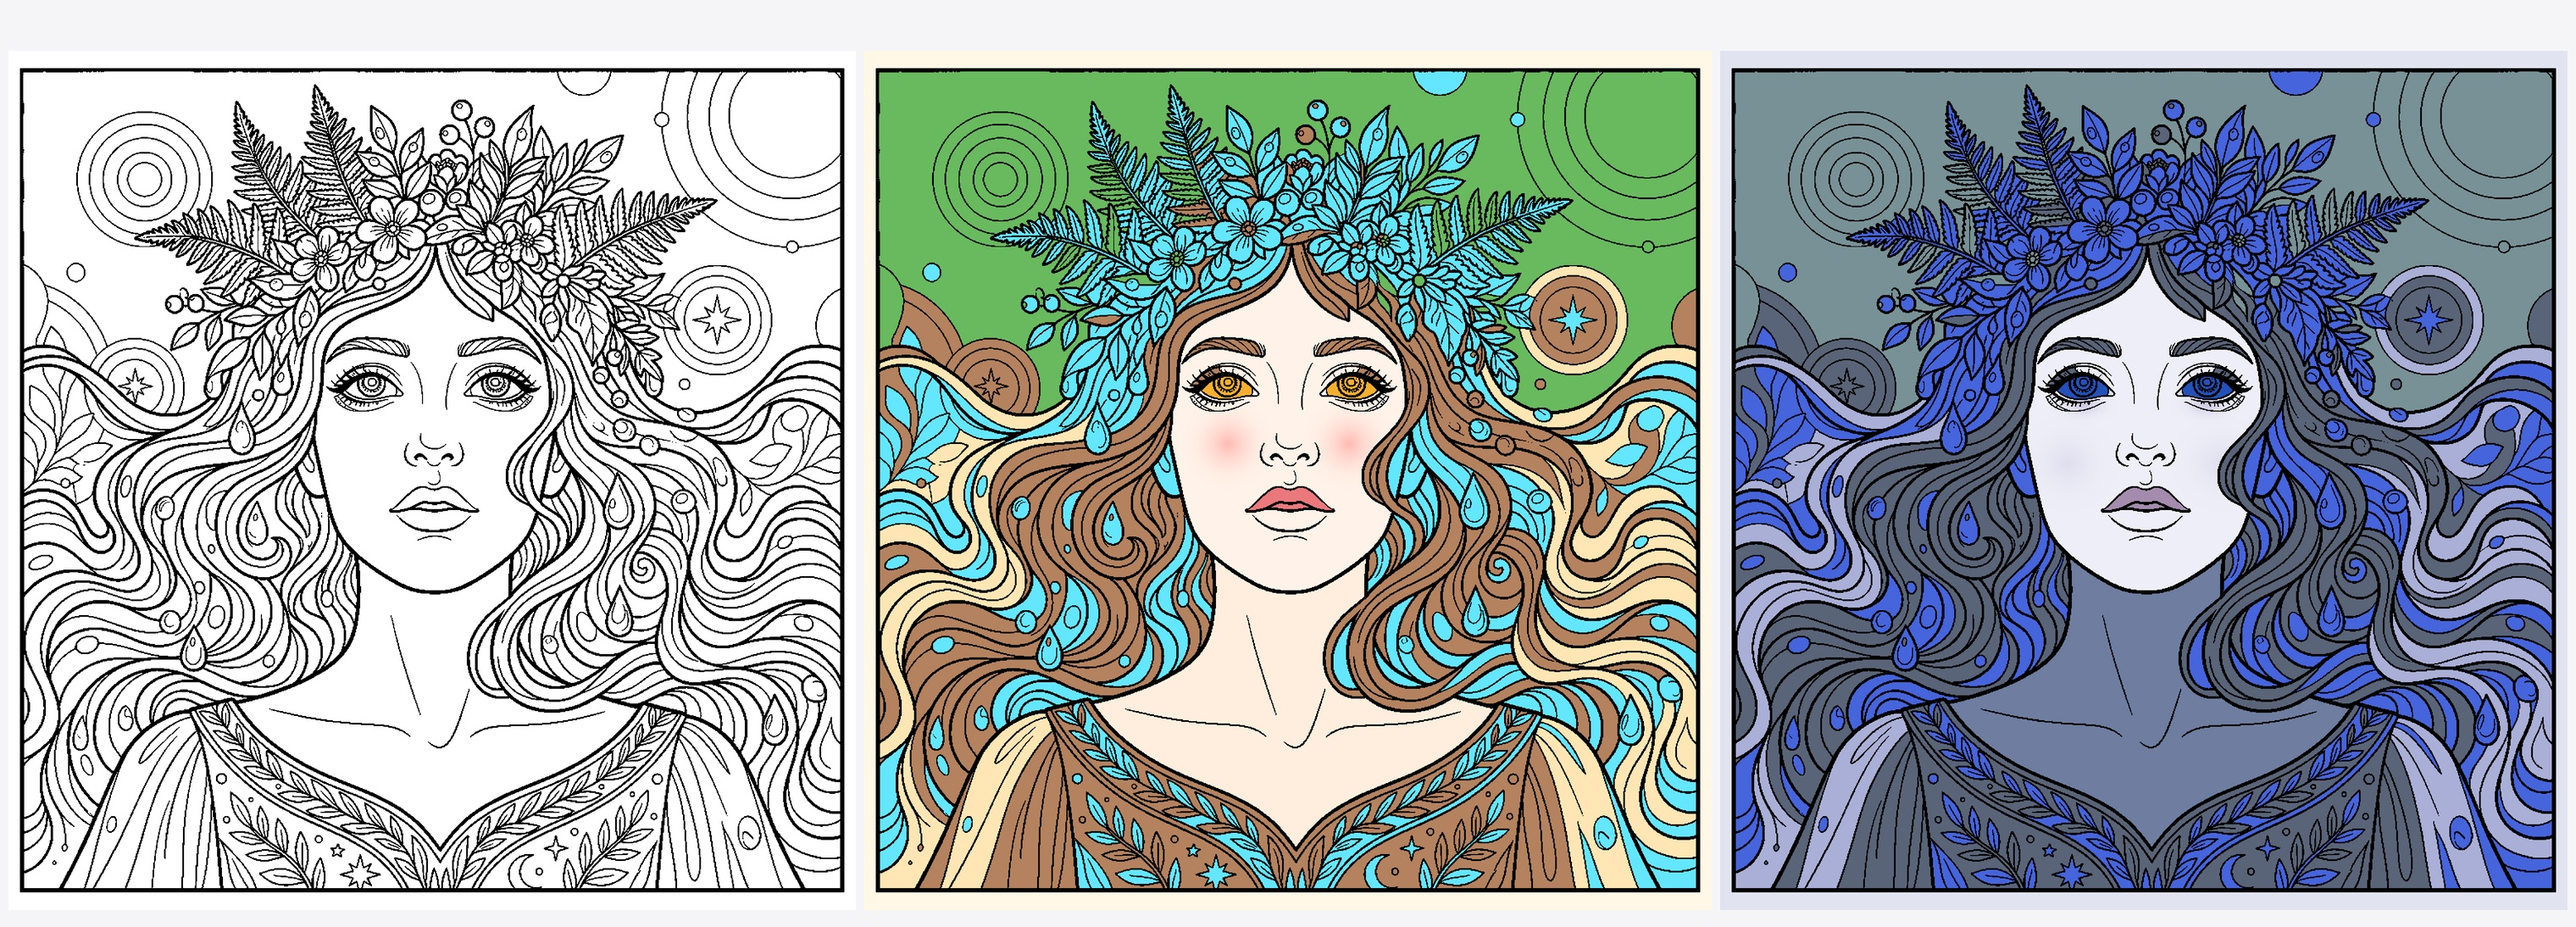
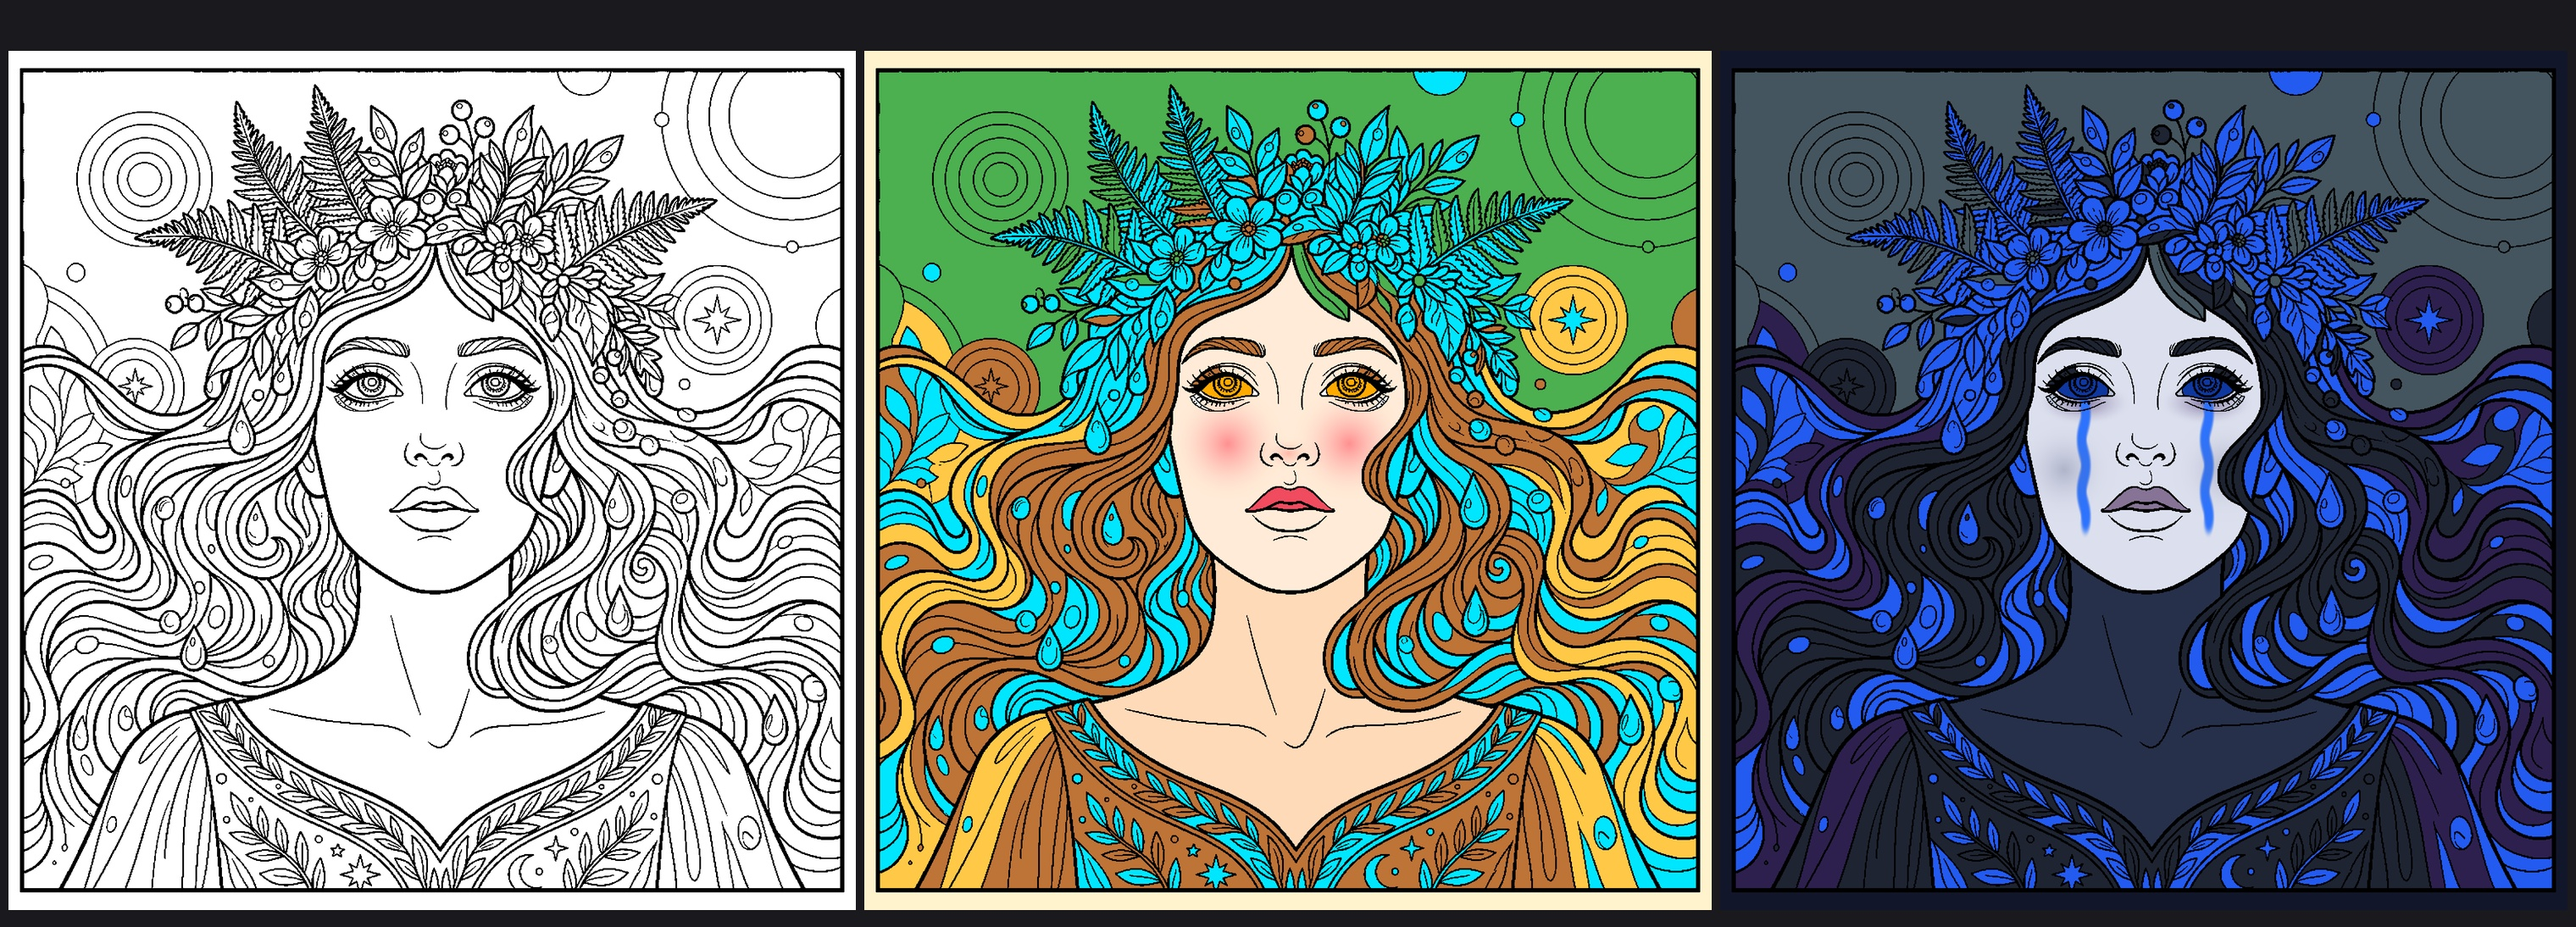
feat: enhance emotional contrast with high-key sunlight vs low-key weeping tears

diff --git a/scripts/render_colored_prototype.py b/scripts/render_colored_prototype.py
@@ -1,9 +1,11 @@
 #!/usr/bin/env python3
 """
-Color the EXACT prototype line art page (assets/aura/processed/page_01_clean.png)
-in two contrasting emotional styles.
-Preserves 100% of the original black vector lines pixel-by-pixel,
-demonstrating how color palette and placement transform character emotion.
+High-Contrast Emotional Color Rendering on exact line art: assets/aura/processed/page_01_clean.png
+Dramatically pushes color theory, lighting, and placement to create unmistakable,
+extreme emotional polarity on the exact same drawing:
+- Style 1 (The Sun Guardian): Radiant Joy, Awakening, Golden Sunlight, Warm Glowing Blush.
+- Style 2 (The Weeping Spirit): Deep Melancholy, Catharsis, Dark Midnight Blue, Ghostly Pale Skin, Crying Tear Tracks.
+Preserves 100% of original black vector lines pixel-by-pixel.
 """
 
 import cv2
@@ -12,7 +14,7 @@ from PIL import Image
 from pathlib import Path
 
 
-def create_colored_styles(
+def render_high_contrast_styles(
     clean_line_path: Path = Path("assets/aura/processed/page_01_clean.png"),
     output_dir: Path = Path("assets/aura"),
 ):
@@ -25,27 +27,20 @@ def create_colored_styles(
     h, w = line_img.shape
     line_mask = line_img < 128  # True where black lines exist
 
-    # 2. Connected components for white regions
+    # 2. Connected components
     _, thresh = cv2.threshold(line_img, 127, 255, cv2.THRESH_BINARY)
     num_labels, labels, stats, centroids = cv2.connectedComponentsWithStats(thresh)
 
-    print(f"[INFO] Image shape: {w}x{h}, Connected white regions: {num_labels}")
-
-    # Specific key components identified
     FACE_LABEL = 330
     BODY_LABEL = 650
     BACKGROUND_LABEL = 1
 
-    # Eye labels
     LEFT_EYE_IRIS = [495, 498, 501, 504, 510]
     LEFT_EYE_SCLERA = [516, 522, 526, 534]
     RIGHT_EYE_IRIS = [496, 499, 502, 505, 509, 511, 514, 518]
     RIGHT_EYE_SCLERA = [507, 517, 525, 527, 529, 536]
-
-    # Lips
     LIP_LABELS = [597, 614]
 
-    # Categorize remaining components
     fern_labels = []
     droplet_labels = []
     hair_labels = []
@@ -61,135 +56,143 @@ def create_colored_styles(
         height = stats[i, cv2.CC_STAT_HEIGHT]
         aspect = max(width, height) / (min(width, height) + 1e-5)
 
-        # Droplets: small/medium oval shapes
-        if 200 <= a <= 9000 and 1.0 <= aspect <= 3.2 and not (980 < cx < 1600 and 700 < cy < 1500):
+        if 150 <= a <= 9000 and 1.0 <= aspect <= 3.2 and not (980 < cx < 1600 and 700 < cy < 1500):
             droplet_labels.append(i)
-        # Ferns: in upper crown or leafy shapes
-        elif (cy < 800 and (cx < 1000 or cx > 1580)) or (a > 5000 and cy < 700):
+        elif (cy < 820 and (cx < 1000 or cx > 1580)) or (a > 5000 and cy < 720):
             fern_labels.append(i)
-        # Aura outer bands
-        elif (cx < 400 or cx > 2180 or cy < 300) and a > 15000:
+        elif (cx < 420 or cx > 2160 or cy < 320) and a > 14000:
             aura_labels.append(i)
-        # Rest is hair / cascading locks
         else:
             hair_labels.append(i)
 
-    print(f"[INFO] Categorized: Ferns={len(fern_labels)}, Droplets={len(droplet_labels)}, Hair={len(hair_labels)}, Aura={len(aura_labels)}")
-
-    # =========================================================================
-    # STYLE 1: RADIANT HOPE, JOY & AWAKENING (Tươi sáng & Thức tỉnh)
-    # =========================================================================
-    print("[INFO] Rendering Style 1: Radiant Hope & Awakening...")
-    s1 = np.full((h, w, 3), 255, dtype=np.uint8)
-
-    # Background / Outer Aura: Warm sunrise peach & golden yellow
-    s1[labels == BACKGROUND_LABEL] = [255, 248, 230]  # Very soft golden cream
-    for lbl in aura_labels:
-        s1[labels == lbl] = [255, 230, 180]  # Golden sunrise amber
-
-    # Body / Garment: Soft radiant ivory peach
-    s1[labels == BODY_LABEL] = [255, 238, 222]
-
-    # Hair: Warm chestnut / honey-caramel brown
-    for lbl in hair_labels:
-        s1[labels == lbl] = [180, 130, 95]
-
-    # Fern Crown: Vibrant fresh emerald & jade green
-    for lbl in fern_labels:
-        s1[labels == lbl] = [105, 185, 95]
-
-    # Water Droplets: Sparkling Cyan & Aquamarine morning dew
-    for lbl in droplet_labels:
-        s1[labels == lbl] = [100, 230, 255]
-
-    # Face Skin: Warm luminous porcelain
-    s1[labels == FACE_LABEL] = [255, 242, 232]
-
-    # Add radiant cheek blush onto face
-    # Left cheek: (1110, 1200), Right cheek: (1480, 1200)
     Y, X = np.ogrid[:h, :w]
     face_mask = (labels == FACE_LABEL)
+
+    # =========================================================================
+    # STYLE 1: RADIANT SUNLIGHT, JOY & AWAKENING (Cao trào rạng rỡ & Ánh sáng)
+    # =========================================================================
+    print("[INFO] Rendering Dramatic Style 1: Radiant Sun & Joy...")
+    s1 = np.full((h, w, 3), 255, dtype=np.uint8)
+
+    # High-Key Golden Background
+    s1[labels == BACKGROUND_LABEL] = [255, 243, 205]  # Warm glowing sunny cream
+    for lbl in aura_labels:
+        s1[labels == lbl] = [255, 200, 70]   # Rich golden amber sun halo
+
+    # Draped Body: Bright warm apricot silk
+    s1[labels == BODY_LABEL] = [255, 218, 185]
+
+    # Hair: Vibrant honey golden brown
+    for lbl in hair_labels:
+        s1[labels == lbl] = [190, 115, 55]
+
+    # Fern Crown: Lush tropical emerald green
+    for lbl in fern_labels:
+        s1[labels == lbl] = [76, 175, 80]
+
+    # Dew Droplets: Glistening electric turquoise
+    for lbl in droplet_labels:
+        s1[labels == lbl] = [0, 230, 255]
+
+    # Face Skin: Warm luminous golden peach
+    s1[labels == FACE_LABEL] = [255, 235, 215]
+
+    # Cheeks & Nose: Vibrant coral blush of life and excitement
     for cx, cy in [(1110, 1200), (1480, 1200)]:
         dist = np.sqrt((X - cx)**2 + (Y - cy)**2)
-        blush_intensity = np.clip(1.0 - (dist / 140.0), 0, 1) ** 2
-        blush_mask = face_mask & (blush_intensity > 0)
-        # Blend soft warm coral pink [255, 145, 140]
-        alpha = blush_intensity[blush_mask, None] * 0.55
-        target_color = np.array([255, 140, 135], dtype=np.float32)
-        s1[blush_mask] = (s1[blush_mask] * (1.0 - alpha) + target_color * alpha).astype(np.uint8)
+        blush_val = np.clip(1.0 - (dist / 170.0), 0, 1) ** 1.8
+        b_mask = face_mask & (blush_val > 0)
+        alpha = blush_val[b_mask, None] * 0.70
+        s1[b_mask] = (s1[b_mask] * (1.0 - alpha) + np.array([255, 105, 115]) * alpha).astype(np.uint8)
 
-    # Eyes: Sparkling warm amber & gold
+    # Nose tip warmth
+    dist_nose = np.sqrt((X - 1295)**2 + ((Y - 1230)*1.5)**2)
+    nose_val = np.clip(1.0 - (dist_nose / 75.0), 0, 1) ** 2
+    n_mask = face_mask & (nose_val > 0)
+    s1[n_mask] = (s1[n_mask] * (1.0 - nose_val[n_mask, None]*0.45) + np.array([255, 120, 110]) * (nose_val[n_mask, None]*0.45)).astype(np.uint8)
+
+    # Eyes: Intense burning amber & gold (Determined, joyful, alive)
     for lbl in LEFT_EYE_SCLERA + RIGHT_EYE_SCLERA:
         s1[labels == lbl] = [255, 255, 255]
     for lbl in LEFT_EYE_IRIS + RIGHT_EYE_IRIS:
-        s1[labels == lbl] = [245, 175, 45]  # Glowing amber gold
+        s1[labels == lbl] = [255, 170, 0]  # Vivid golden flame amber
 
-    # Lips: Warm natural coral rose
+    # Lips: Bright blooming cherry rose
     for lbl in LIP_LABELS:
-        s1[labels == lbl] = [235, 120, 125]
+        s1[labels == lbl] = [240, 75, 95]
 
-    # OVERLAY EXACT 100% ORIGINAL BLACK VECTOR LINES
+    # Overlay exact 100% original black lines
     s1[line_mask] = [0, 0, 0]
 
     # =========================================================================
-    # STYLE 2: DEEP MELANCHOLY, SOLITUDE & CATHARSIS (U sầu & Chiều sâu nội tâm)
+    # STYLE 2: DEEP MELANCHOLY, GRIEF & WEEPING TEARS (Bi kịch, U uất, Nước mắt)
     # =========================================================================
-    print("[INFO] Rendering Style 2: Deep Melancholy & Catharsis...")
+    print("[INFO] Rendering Dramatic Style 2: Deep Melancholy & Weeping Tears...")
     s2 = np.full((h, w, 3), 255, dtype=np.uint8)
 
-    # Background / Outer Aura: Twilight deep amethyst & stormy navy
-    s2[labels == BACKGROUND_LABEL] = [225, 228, 240]  # Cold twilight mist
+    # Low-Key Dark Midnight Twilight Background (Dark contrast makes face look haunted)
+    s2[labels == BACKGROUND_LABEL] = [18, 22, 42]   # Deep midnight navy
     for lbl in aura_labels:
-        s2[labels == lbl] = [170, 175, 215]  # Stormy amethyst purple
+        s2[labels == lbl] = [45, 32, 78]    # Dark stormy amethyst purple
 
-    # Body / Garment: Midnight slate navy
-    s2[labels == BODY_LABEL] = [110, 125, 160]
+    # Draped Body: Dark midnight shroud
+    s2[labels == BODY_LABEL] = [38, 48, 75]
 
-    # Hair: Smoky charcoal ash blue
+    # Hair: Inky blue-black / cold charcoal
     for lbl in hair_labels:
-        s2[labels == lbl] = [90, 100, 120]
+        s2[labels == lbl] = [30, 36, 50]
 
-    # Fern Crown: Withered winter sage & frosty pine
+    # Fern Crown: Withered dying frosty blue / ash grey
     for lbl in fern_labels:
-        s2[labels == lbl] = [120, 145, 150]
+        s2[labels == lbl] = [68, 85, 95]
 
-    # Water Droplets: Poignant deep cobalt tears of release
+    # Droplets: Dark heavy tears of despair (Electric deep cobalt & indigo)
     for lbl in droplet_labels:
-        s2[labels == lbl] = [70, 100, 220]
+        s2[labels == lbl] = [35, 90, 240]
 
-    # Face Skin: Cool pale porcelain with faint lavender undertone
-    s2[labels == FACE_LABEL] = [238, 238, 248]
+    # Face Skin: Ghostly pale moonlit porcelain with cold blue undertone
+    s2[labels == FACE_LABEL] = [220, 224, 238]
 
-    # Add sorrowful smoky lavender shadows under eyes & hollows of cheeks
-    # Eye shadows around (1110, 1070) and (1486, 1070)
-    for cx, cy in [(1110, 1080), (1486, 1080)]:
-        dist = np.sqrt((X - cx)**2 + ((Y - cy)*1.8)**2)
-        shadow_intensity = np.clip(1.0 - (dist / 110.0), 0, 1) ** 2
-        shadow_mask = face_mask & (shadow_intensity > 0)
-        alpha = shadow_intensity[shadow_mask, None] * 0.45
-        target_color = np.array([160, 150, 195], dtype=np.float32)  # Smoky violet
-        s2[shadow_mask] = (s2[shadow_mask] * (1.0 - alpha) + target_color * alpha).astype(np.uint8)
+    # Dark bruised violet eye bags & tear pooling under eyes
+    for cx, cy in [(1110, 1075), (1486, 1075)]:
+        dist = np.sqrt(((X - cx)*0.85)**2 + ((Y - cy)*1.8)**2)
+        bag_val = np.clip(1.0 - (dist / 120.0), 0, 1) ** 1.5
+        bag_mask = face_mask & (bag_val > 0)
+        alpha = bag_val[bag_mask, None] * 0.65
+        s2[bag_mask] = (s2[bag_mask] * (1.0 - alpha) + np.array([85, 65, 125]) * alpha).astype(np.uint8)
 
-    # Cool subtle cheek contouring
-    for cx, cy in [(1060, 1260), (1530, 1260)]:
-        dist = np.sqrt((X - cx)**2 + (Y - cy)**2)
-        contour_intensity = np.clip(1.0 - (dist / 150.0), 0, 1) ** 2
-        contour_mask = face_mask & (contour_intensity > 0)
-        alpha = contour_intensity[contour_mask, None] * 0.30
-        target_color = np.array([185, 185, 215], dtype=np.float32)
-        s2[contour_mask] = (s2[contour_mask] * (1.0 - alpha) + target_color * alpha).astype(np.uint8)
+    # Visible weeping tear trails streaming down from eyes to jawline
+    # Left tear track: x=1110, y from 1070 to 1420
+    # Right tear track: x=1486, y from 1070 to 1420
+    for tear_x in [1110, 1486]:
+        for y_pt in range(1070, 1450, 4):
+            x_offset = int(np.sin((y_pt - 1070) * 0.04) * 8)
+            dist_t = np.sqrt((X - (tear_x + x_offset))**2 + ((Y - y_pt)*0.4)**2)
+            t_val = np.clip(1.0 - (dist_t / 18.0), 0, 1) ** 1.5
+            t_mask = face_mask & (t_val > 0)
+            if np.any(t_mask):
+                alpha_t = t_val[t_mask, None] * 0.75
+                s2[t_mask] = (s2[t_mask] * (1.0 - alpha_t) + np.array([45, 115, 255]) * alpha_t).astype(np.uint8)
 
-    # Eyes: Deep melancholic sapphire & slate blue
+    # Hollows of cheeks: Cold purple-grey depression shadow
+    for cx, cy in [(1050, 1280), (1540, 1280)]:
+        dist_c = np.sqrt((X - cx)**2 + (Y - cy)**2)
+        c_val = np.clip(1.0 - (dist_c / 160.0), 0, 1) ** 2
+        c_mask = face_mask & (c_val > 0)
+        alpha_c = c_val[c_mask, None] * 0.40
+        s2[c_mask] = (s2[c_mask] * (1.0 - alpha_c) + np.array([110, 115, 150]) * alpha_c).astype(np.uint8)
+
+    # Eyes: Cold sorrowful slate-sapphire (Drowned in grief)
     for lbl in LEFT_EYE_SCLERA + RIGHT_EYE_SCLERA:
-        s2[labels == lbl] = [220, 225, 240]  # Cool tinted sclera
+        s2[labels == lbl] = [185, 195, 215]  # Bloodshot cool grey
     for lbl in LEFT_EYE_IRIS + RIGHT_EYE_IRIS:
-        s2[labels == lbl] = [35, 80, 185]  # Deep sad sapphire blue
+        s2[labels == lbl] = [15, 55, 160]   # Drowned deep navy
 
-    # Lips: Muted berry / pale lavender
+    # Lips: Cold pale bruised lavender / desaturated mauve
     for lbl in LIP_LABELS:
-        s2[labels == lbl] = [165, 140, 175]
+        s2[labels == lbl] = [135, 115, 150]
 
-    # OVERLAY EXACT 100% ORIGINAL BLACK VECTOR LINES
+    # Overlay exact 100% original black lines
     s2[line_mask] = [0, 0, 0]
 
     # 4. Save both exact colored variants
@@ -199,10 +202,21 @@ def create_colored_styles(
     Image.fromarray(s1).save(out_s1, dpi=(300, 300))
     Image.fromarray(s2).save(out_s2, dpi=(300, 300))
 
-    print(f"[SUCCESS] Saved exact colored Style 1: {out_s1}")
-    print(f"[SUCCESS] Saved exact colored Style 2: {out_s2}")
+    # Also generate high-resolution side-by-side comparison strip
+    p_clean = Image.open(str(clean_line_path)).convert('RGB')
+    im1 = p_clean.resize((1000, 1014), Image.Resampling.LANCZOS)
+    im2 = Image.fromarray(s1).resize((1000, 1014), Image.Resampling.LANCZOS)
+    im3 = Image.fromarray(s2).resize((1000, 1014), Image.Resampling.LANCZOS)
+
+    combined = Image.new('RGB', (1000 * 3 + 40, 1014 + 80), color=(25, 25, 30))
+    combined.paste(im1, (10, 60))
+    combined.paste(im2, (1000 + 20, 60))
+    combined.paste(im3, (1000 * 2 + 30, 60))
+
+    combined.save(output_dir / "comparison_side_by_side.jpg", quality=95)
+    print(f"[SUCCESS] High-contrast comparison generated successfully!")
     return True
 
 
 if __name__ == "__main__":
-    create_colored_styles()
+    render_high_contrast_styles()
